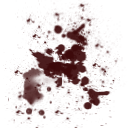
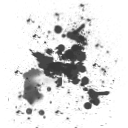
[changed] blood stains appearance [changed] dark green blood if monster is poisoned

diff --git a/trunk/src/program.cpp b/trunk/src/program.cpp
@@ -179,28 +179,32 @@ void createTerrain() {
 void spawnEnemy(float r) {
 	float spawnAngle = (rand() % 6300) / 1000.0;
 
-	int lvl = player->Level * 0.5f + player->Level * pow((rand() % 100) / 125.0f, 2);
-	if (lvl < 1) lvl = 1;
+	int lvl = player->Level * 0.5f + player->Level * pow((rand() % 100)
+			/ 125.0f, 2);
+	if (lvl < 1)
+		lvl = 1;
 
-	float scale = 0.1f + sqrt((float) lvl / player->Level);
+	float scale = 0.15f + sqrt((float) lvl / player->Level);
 
-	float param[3] = { 0.9f, 0.7f, 0.9f };
+	float param[3] = { 0.8f, 0.6f, 0.8f };
 
 	if (lvl > 1)
-		for (int i = 0; i < lvl; i++)
-		{
+		for (int i = 0; i < lvl; i++) {
 			int s = (rand() % 299) / 100;
 			param[s] += 0.1f;
 		}
 
 	float hi = 0.0f;
-	for (int i = 0; i < 3; i++)
-	{
-		if (param[i] > hi) hi = param[i];
+	for (int i = 0; i < 3; i++) {
+		if (param[i] > hi)
+			hi = param[i];
 	}
 
-	Enemy *newEnemy = new Enemy(r * cos(spawnAngle), r * sin(spawnAngle), param[1] > (param[0] + param[1] + param[2]) / 3.0f ? enemySprites[1] : enemySprites[0], bleedSprite,
-			enemyHitSounds[rand() % enemyHitSounds.size()]);
+	Enemy *newEnemy =
+			new Enemy(r * cos(spawnAngle), r * sin(spawnAngle), param[1]
+					> (param[0] + param[1] + param[2]) / 3.0f ? enemySprites[1]
+					: enemySprites[0], bleedSprite, enemyHitSounds[rand()
+					% enemyHitSounds.size()]);
 
 	newEnemy->Strength = param[0];
 	newEnemy->Agility = param[1];
@@ -212,7 +216,7 @@ void spawnEnemy(float r) {
 	newEnemy->GMask = newEnemy->Strength / hi;
 	newEnemy->BMask = newEnemy->Agility / hi * 0.7f;
 	newEnemy->Scale = scale;
-	
+
 	newEnemy->setHealth(newEnemy->MaxHealth());
 	newEnemy->Speed = newEnemy->MaxSpeed();
 	enemies.push_back(newEnemy);
@@ -270,15 +274,14 @@ void printVersion() {
 	delete[] buf;
 }
 
-void renderSplash()
-{
-	StaticObject* splash = new StaticObject(0,0,1000, 1000, new Texture(ImageUtility::loadImage(
-			fileUtility->getFullImagePath("splash.png")), GL_TEXTURE_2D,
-			GL_LINEAR, true), true);
+void renderSplash() {
+	StaticObject* splash = new StaticObject(0, 0, 1000, 1000,
+			new Texture(ImageUtility::loadImage(fileUtility->getFullImagePath(
+					"splash.png")), GL_TEXTURE_2D, GL_LINEAR, true), true);
 
 	glClear(GL_COLOR_BUFFER_BIT);
 
-	cam->X =cam->Y=0.0f;
+	cam->X = cam->Y = 0.0f;
 
 	cam->apply();
 
@@ -560,6 +563,23 @@ void killEnemy(int index) {
 	enemies.erase(enemies.begin() + index);
 }
 
+void addBloodStain(float x, float y, float angle, float scale, bool poisoned) {
+	StaticObject *newBloodStain = new StaticObject(x, y, 128, 128,
+			bloodTex[(rand() % 299) / 100], false);
+
+	newBloodStain->Scale = scale;
+	newBloodStain->Angle = angle;
+	if (poisoned) {
+		newBloodStain->GMask = 1.0f - (rand() % 200) / 1000.0f;
+		newBloodStain->RMask = newBloodStain->BMask = (rand() % 200) / 1000.0f;
+	} else {
+		newBloodStain->RMask = 1.0f - (rand() % 200) / 1000.0f;
+		newBloodStain->GMask = newBloodStain->BMask = (rand() % 200) / 1000.0f;
+
+	}
+	bloodStains.push_back(newBloodStain);
+}
+
 void handleEnemies() {
 	if (!lose)
 		for (int i = 0; i < deltaTime; i++) {
@@ -643,15 +663,9 @@ void handleEnemies() {
 				enemies[i]->rollFrame(true);
 			}
 
-			if (enemies[i]->isBleeding() && bloodStains.size() < 3) {
-				StaticObject *newBloodStain = new StaticObject(enemies[i]->X,
-						enemies[i]->Y, 128, 128,
-						bloodTex[(rand() % 299) / 100], false);
-				newBloodStain->Scale = (rand() % 10) / 50.0 + 0.1;
-				newBloodStain->Angle = enemies[i]->Angle;
-				newBloodStain->RMask = newBloodStain->GMask
-						= newBloodStain->BMask = 1.0 - (rand() % 200) / 1000.0;
-				bloodStains.push_back(newBloodStain);
+			if (enemies[i]->isBleeding() && bloodStains.size() < 9) {
+				addBloodStain(enemies[i]->X, enemies[i]->Y, enemies[i]->Angle,
+						(rand() % 10) / 50.0f + 0.1f, enemies[i]->Poisoned);
 			}
 		}
 	}
@@ -665,6 +679,23 @@ void handleBullets() {
 			if (bullets[i]->isActive() && !enemies.empty()) {
 				for (int j = enemies.size() - 1; j >= 0; j--) {
 					if (bullets[i]->checkHit(enemies[j])) {
+						if (bloodStains.size() < 9) {
+							for (int k = 0; k < 3; k++) {
+								int angleDev = (rand() % 90) - 45;
+								float distance = (rand() % 100);
+								float bX = enemies[j]->X - cos(
+										(bullets[i]->Angle + 90 + angleDev)
+												* M_PI / 180.0f) * distance;
+								float bY = enemies[j]->Y - sin(
+										(bullets[i]->Angle + 90 + angleDev)
+												* M_PI / 180.0f) * distance;
+
+								addBloodStain(bX, bY, enemies[j]->Angle,
+										enemies[j]->Scale * 0.5f,
+										enemies[j]->Poisoned);
+							}
+						}
+
 						player->Xp += (int) ((1.5 - dayLight * -0.5)
 								* bullets[i]->Damage * 10);
 						float damageLoss = enemies[j]->getHealth();
@@ -674,18 +705,6 @@ void handleBullets() {
 							bullets[i]->Damage -= damageLoss;
 							if (bullets[i]->Damage <= 0)
 								bullets[i]->deactivate();
-						}
-
-						if (bloodStains.size() < 3) {
-							StaticObject *newBloodStain = new StaticObject(
-									enemies[j]->X, enemies[j]->Y, 128, 128,
-									bloodTex[(rand() % 299) / 100], false);
-							newBloodStain->Scale = enemies[j]->Scale;
-							newBloodStain->Angle = enemies[j]->Angle;
-							newBloodStain->RMask = newBloodStain->GMask
-									= newBloodStain->BMask = 1.0 - (rand()
-											% 200) / 1000.0;
-							bloodStains.push_back(newBloodStain);
 						}
 					}
 				}
